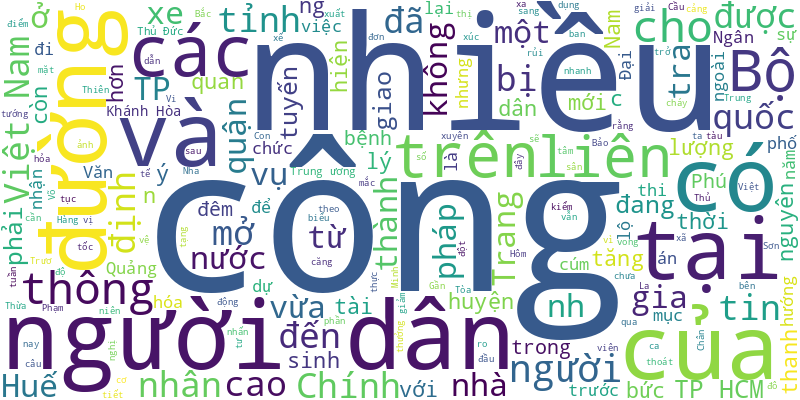
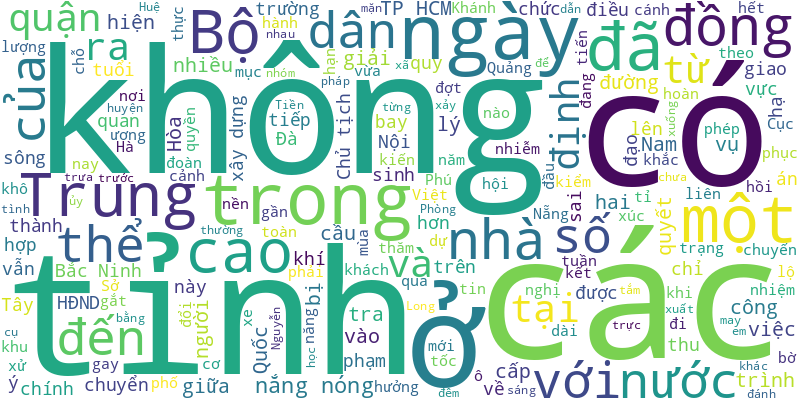
🍀 = 10%

diff --git a/README.md b/README.md
@@ -1,6 +1,16 @@
 # Tuoi Tre RSS 
 
 ## Giáo dục 
+- Kỳ thi đánh giá năng lực đợt 1 năm 2023 do Đại học Quốc gia TP.HCM tổ chức vào sáng 7-4 có tỉ lệ thí sinh dự thi cao nhất từ trước đến nay lên đến 98,2%.
+- Những học sinh còn nằm viện kể trên của Trường tiểu học Vĩnh Trường và Trường THCS Trần Hưng Đạo, TP Nha Trang đều đã nhập viện cùng ngày với nữ sinh lớp 5 tử vong vào sáng 5-4.
+- Chiều 7-4, vòng chung kết cuộc thi ‘Thử thách kinh doanh sáng tạo Việt Nam năm 2024’’ đã diễn ra tại Đại học Fulbright Việt Nam.
+- Với hầu hết học sinh, chụp ảnh thành phố từ sông Sài Gòn là trải nghiệm 'có 1 không 2'. Có bạn đã chụp hơn 300 tấm hình trong chuyến đi đầy thú vị.
+- Chiều tối 7-4, 100 học sinh THCS và 100 học sinh THPT sẽ tranh tài tại vòng chung kết Hội thi sáng tác ảnh Tuổi Xanh.
+- Từ Hungary, 2 giảng viên và 4 sinh viên sang Việt Nam học nghề bếp, từ phở, bún chả, gỏi cuốn đến dê chiên riềng, gà tre hấp mắm, cua lột xốt...
+- Hoàn thành bài thi đánh giá năng lực trưa 7-4, nhiều thí sinh dự kiến có thể trên 700 điểm, có bạn tự tin sẽ được 1.000 trên tổng 1.200 điểm.
+- Tổng số thí sinh dự thi đánh giá năng lực sáng 7-4 là 93.831, vắng 1.718, tỉ lệ 98,2%, cao nhất từ trước đến nay.
+- Gần 20 năm giảng dạy và nghiên cứu côn trùng học, tiến sĩ Nguyễn Thị Oanh tìm ra những phương pháp tự nhiên bảo vệ cây trồng và nông sản.
+- Hơn 95.000 thí sinh bước vào kỳ thi đánh giá năng lực đợt 1 năm 2024 do Đại học Quốc gia TP.HCM tổ chức sáng 7-4 tại 24 tỉnh, thành trên cả nước.
 - Sáng nay 7-4, hơn 95.000 thí sinh dự thi đánh giá năng lực của ĐH Quốc gia TP.HCM, đông nhất từ trước đến nay.
 - Không cần tham gia các bảng xếp hạng, nhiều đại học đang nỗ lực tạo dựng vị thế bằng các công trình nghiên cứu, các dự án thay đổi xã hội theo hướng tích cực và bền vững.
 - Tối 6-4, Trường phổ thông Năng khiếu (Đại học Quốc gia TP.HCM) công bố chỉ tiêu và kế hoạch tuyển sinh lớp 10 năm học 2024-2025.
@@ -21,48 +31,38 @@
 - Hầu hết các tỉnh, thành đều tổ chức tổng kết năm học 2023-2024 trước ngày 31-5 và cho học sinh nghỉ hè từ ngày 1-6.
 - Nhà giáo nhân dân Lâm És, nguyên phó giám đốc Sở Giáo dục và Đào tạo tỉnh Sóc Trăng, là người viết khoảng 100 đầu sách được xuất bản, với 53 đầu sách mang tầm quốc gia.
 - Theo ông Bùi Quang Ngọc - giám đốc cấp cao Công ty Marvell Việt Nam, nhiều công ty, tập đoàn lớn trong ngành sản xuất vi mạch bán dẫn đánh giá cao đội ngũ kỹ sư người Việt bởi tính cần cù, sáng tạo và trung thực.
-- UBND tỉnh Lâm Đồng đã ra văn bản hỏa tốc yêu cầu UBND huyện Lạc Dương kiểm tra xử lý vụ "học sinh chui rào kẽm gai để đến trường".
-- Ngày 5-4, UBND TP Hải Phòng phối hợp cùng Tập đoàn giáo dục quốc tế KinderWorld khởi công xây dựng Trường quốc tế Singapore đầu tiên tại Hải Phòng.
-- Theo Nhà xuất bản Giáo dục Việt Nam, việc giảm giá trên dưới 10% giá bìa được áp dụng với các bộ sách giáo khoa các lớp 1, 2 ,3, 4, 6, 7, 8, 10, 11.
-- Ba học sinh lớp 4, 5 ở TP.HCM gây bất ngờ khi trình làng hệ thống Vườn cây thông minh mini vận hành bằng bánh xe nước.
-- Trong sáng 5-4, có 32 học sinh Trường tiểu học Vĩnh Trường và Trường THCS Trần Hưng Đạo, TP Nha Trang (Khánh Hòa) đã được sơ cứu tại trường, rồi đưa vào các bệnh viện. Trong đó, có nữ sinh lớp 5 đã bị tử vong.
-- Học sinh thôn Păng Tiêng, xã Lát, huyện Lạc Dương (Lâm Đồng) phải chui rào kẽm gai để đến trường vì con đường quen thuộc bị công ty thủy điện rào chắn.
-- Liên tục xuất hiện những vụ học sinh ngộ độc do chơi 'bóng nổ', 'bóng thối' khiến nhiều địa phương phải lên tiếng cảnh báo về các loại đồ chơi nguy hiểm.
-- Theo các chuyên gia, việc lái xe trên đường có nhiệt độ quá cao gây ảnh hưởng đến ô tô, hư hỏng nhiều bộ phận không riêng lốp xe, nên rất dễ xảy ra tai nạn.
-- Trong con mắt nhà toán học và nhà khoa học, bảng đen có sức hấp dẫn kỳ lạ, và những gì được viết trên đó bằng phấn - không nhất thiết phải là phấn trắng - có vẻ đẹp đến tầm nghệ thuật.
-- Quy mô đào tạo đại học chính quy của nhiều trường đại học, phân hiệu đại học chỉ trên dưới 1.000 sinh viên, thậm chí có nơi chưa đến 200 sinh viên.
 ![Edu](Edu.png)
 ## Thời Sự 
-- Tin tức đáng chú ý: Hà Nội, TP.HCM, Nghệ An sẽ thí điểm cấp phiếu lý lịch tư pháp tại quận, huyện; Lượng tài khoản chứng khoán mở mới tăng cao; Khánh Hòa mở cao điểm kiểm tra vệ sinh thực phẩm sau nhiều vụ ngộ độc liên tục...
-- Hôm nay thời tiết nắng đã bớt căng thẳng đối với các tỉnh Bắc Bộ, Trung Bộ, riêng tại Nam Bộ, Tây Nguyên vẫn còn gay gắt, oi bức.
-- Phó giám đốc Sở Thông tin và Truyền thông tỉnh Khánh Hòa cho hay liên quan đến vụ nữ sinh lớp 5 Trường tiểu học Vĩnh Trường, Nha Trang tử vong, có hơn 20 tài khoản mạng xã hội đăng tải thông tin không chính xác.
-- Hàng trăm người dân theo dõi công an giải cứu thanh niên có biểu hiện ngáo đá leo lên ban công sân thượng nhà dân trong đêm. Nhiều người ngao ngán: 'Một người làm khổ bao người'.
-- Phú Quốc có nhiều tour trải nghiệm câu mực đêm, ngồi tàu ngắm hoàng hôn hấp dẫn du khách.
-- Thủ tướng Phạm Minh Chính đã đột xuất đến Bệnh viện Trung ương Huế thăm, động viên ba bệnh nhân vừa được ghép tạng xuyên Việt từ người hiến tạng chết não ở Quảng Ninh.
-- Người dân  cho biết quá bức xúc trước việc đơn vị thi công cho xe lu lèn mặt đường quốc lộ 19 khiến nhà cửa bị rung lắc, nứt vách.
-- Dự án thoát nước đường Võ Văn Ngân (TP Thủ Đức) thi công trở lại, liên tục gây ảnh hưởng đến người dân.
-- Dù cuối tuần nhưng trên cao tốc La Sơn - Hòa Liên không còn cảnh tấp nập xe cộ đi lại như trước đây.
-- Đại biểu Quốc hội tỉnh Quảng Trị cho rằng việc cấm xe trên cao tốc Cam Lộ - La Sơn là dồn rủi ro từ bên này sang bên kia, không khéo dưới quốc lộ 1 còn rủi ro nhiều hơn vì xuyên tâm qua thành phố.
-- Gần 20ha mía của người dân Phú Yên bị lửa thiêu rụi trong đêm, hiện lực lượng chức năng đang khẩn trương điều tra nguyên nhân.
-- Nhiều quái xế phóng nhanh, vượt ẩu, lạng lách trên đường phố Quảng Ngãi bị công an tuần tra hóa trang tóm gọn.
-- Thủ tướng Phạm Minh Chính đã nhấn nút khởi công khu cảng biển Vsico Huế nằm trong cụm cảng nước sâu Chân Mây (huyện Phú Lộc, Thừa Thiên Huế).
-- Chiều 6-4, phần đầu máy của đoàn tàu hỏa chở hàng đi đến xã Liên Bảo, huyện Vụ Bản, tỉnh Nam Định thì bất ngờ bốc cháy buộc phải dừng.
-- Tòa án nhân dân tối cao đang lấy ý kiến góp ý với dự thảo nghị quyết hướng dẫn áp dụng một số quy định về tình tiết giảm nhẹ trách nhiệm hình sự.
-- Việc 239 chiếc xe buýt ở TP.HCM thay mới nhận được sự ủng hộ của nhiều người dân. Nhưng để phát triển hơn nữa, người dân mong cần xử lý nghiêm các tài xế, nhân viên có thái độ chưa tốt.
-- Việt Nam vừa ghi nhận ca mắc cúm A(H9) đầu tiên trên người. Trước đó, tại tỉnh Khánh Hòa đã có ca tử vong do cúm A(H5N1). Bộ Y tế nhận định thời gian tới vẫn tiềm ẩn nguy cơ lây nhiễm các chủng vi rút cúm gia cầm sang người.
-- Con đường ẩm thực thưởng thức bê thui Cầu Mống tại chân cầu Câu Lâu ở hướng phía Bắc, từ trung tâm thị xã Điện Bàn đi vào bờ sông Thu Bồn đìu hiu nửa năm qua.
-- UBND tỉnh Bình Định đề nghị Chính phủ hỗ trợ khoảng 1.500 tỉ đồng để cùng với ngân sách địa phương  mở rộng sân bay Phù Cát.
-- Người dân bức xúc vì cát bụi tại công trình thi công dự án thoát nước trên đường Võ Văn Ngân (TP Thủ Đức) bay mù mịt.
-- Nhiều phụ huynh phản ảnh tại TP Nha Trang, Khánh Hòa, các trường không mở căng tin, học sinh phải ăn ở ngoài, nên rất lo lắng chất lượng bữa ăn của con em.
-- Bộ Ngoại giao Việt Nam nhấn mạnh các trụ sở cơ quan đại diện ngoại giao và lãnh sự phải được tôn trọng, bảo vệ theo luật pháp quốc tế, sau vụ một tòa nhà của Đại sứ quán Iran bị tấn công hôm 1-4.
-- Có đến gần 10% người dân Việt Nam mắc phải bệnh lý trào ngược dạ dày và đang có xu hướng gia tăng do nhiều nguyên nhân khác nhau.
-- UBND quận 1, quận 10 và quận 11 gửi Sở Giao thông vận tải TP.HCM, các đơn vị liên quan đề xuất danh mục các tuyến đường sử dụng tạm thời một phần vỉa hè ngoài mục đích giao thông.
-- Những biện pháp để tăng cường phòng chống và giảm thiểu hậu quả khi đã bị tấn công mã hóa tống tiền vừa được Cục An toàn thông tin xây dựng thành cẩm nang.
-- Sáng 6-4, tại Thanh Hóa, Ủy ban Trung ương MTTQ Việt Nam tổ chức gặp mặt, tri ân chiến sĩ, thanh niên xung phong, dân công hỏa tuyến tham gia chiến dịch Điện Biên Phủ.
-- Từ vụ cháy dãy nhà ven bờ nam kênh Đôi mới đây, nhiều bạn đọc cho rằng TP.HCM cần có giải pháp đột phá đẩy nhanh tiến độ chỉnh trang, di dời và tổ chức lại cuộc sống của người dân đang sống trên và ven kênh rạch hiện nay.
-- Đường Lê Văn Việt là tuyến đường chính của TP Thủ Đức, nhưng chưa được mở rộng trên toàn tuyến.
-- Thừa Thiên Huế xác định mục tiêu đến năm 2025 sẽ trở thành thành phố trực thuộc trung ương và là đô thị di sản đặc trưng của Việt Nam.
-- Bộ Tài chính vừa duyệt kế hoạch kiểm tra hoạt động kinh doanh xổ số, casino và trò chơi có thưởng cho người nước ngoài năm 2024.
+- HĐND tỉnh Quảng Nam đã miễn nhiệm chức danh chủ tịch HĐND tỉnh nhiệm kỳ 2021-2026 đối với ông Phan Việt Cường.
+- Một số tin tức đáng chú ý: 5 đoàn liên ngành trung ương kiểm tra an toàn thực phẩm; TP.HCM đặt mục tiêu giảm 85% ô nhiễm không khí do xe cộ; Cục An toàn thông tin khuyến cáo người dùng iPhone cảnh giác...
+- Hôm nay thời tiết Nam Bộ tiếp tục nắng nóng, có nơi nắng nóng gay gắt, kéo dài chuỗi ngày khô hạn ở khu vực này lên hơn 55 ngày.
+- Trong hai ngày cuối tuần, nhiều chuyến bay đi, đến sân bay Điện Biên không thể cất, hạ cánh hoặc phải chuyển hướng hạ cánh do ảnh hưởng mù khô.
+- Vụ tai nạn liên hoàn giữa 3 xe khách 45 chỗ trên đường nối cao tốc Nội Bài - Lào Cai đến Sa Pa (tỉnh lộ 155) khiến một hành khách tử vong.
+- Chủ tịch Quốc hội nhấn mạnh ý nghĩa quan trọng của chuyến thăm chính thức Trung Quốc lần này trong việc duy trì đà tiếp xúc cấp cao, trao đổi chiến lược cấp cao giữa hai Đảng, hai nước.
+- Tuổi Trẻ Online ghi nhận hiện trạng, ý kiến người dân ở các tuyến đường đủ điều kiện thu phí sử dụng tạm vỉa hè ở quận 1, quận 10 và quận 11.
+- Dù có quyết định cưỡng chế do xây dựng sai phép, không phép nhưng 96 trường hợp vẫn không khắc phục, UBND quận 7 đề nghị ngừng các giao dịch, chuyển nhượng với các công trình trên.
+- Sau khi có chỉ đạo của thành phố Đà Nẵng, các lực lượng chức năng đã hoàn thành việc xúc lớp giá hạ đổ chồng lên trên nền đất cũ ngoài bờ kè sông Hàn gần cầu Trần Thị Lý.
+- Nhờ sự vào cuộc quyết liệt của chính quyền địa phương và đồng lòng của người dân, dự án đường dây 500kV mạch 3 qua Nghệ An đang được đẩy nhanh tiến độ.
+- Khánh Hòa đã thu hồi, nộp ngân sách nhà nước gần 700 tỉ đồng trong quá trình xử lý, khắc phục sai phạm tại các dự án theo kết luận, kiến nghị của các cơ quan trung ương.
+- Hà Nội đã bước vào đợt nắng nóng đầu tiên trong năm 2024, tuy nhiên chất lượng không khí có ngày vẫn ở mức xấu. Khi nào mới hết "mùa" ô nhiễm không khí?
+- Trung tâm Quản lý nhà và Giám định xây dựng (Sở Xây dựng TP.HCM) vừa kiểm kê nhà sở hữu nhà nước số 14 Tự Quyết (quận Tân Phú) bị người thuê chia 3 căn bán.
+- Quảng Trị yêu cầu thường trực huyện ủy về làm việc trực tiếp từng xã để giải quyết dứt điểm từng trường hợp cụ thể, và bàn giao mặt bằng cao tốc Cam Lộ - Vạn Ninh trước ngày 30-4.
+- Phòng cảnh sát điều tra tội phạm về ma túy Công an TP Hải Phòng vừa bắt quả tang nhóm “bay lắc”, có cả nữ cán bộ công an tham gia tổ chức.
+- Đến trưa 7-4, vẫn chưa có tung tích Nguyễn Kiều Thảo My (7 tuổi) và Lê Hoàng Thùy Linh (3 tuổi) bị lạc ở khu vực Đồng Khởi - Nguyễn Huệ (TP.HCM).
+- Các giải pháp để môi trường nước tốt hơn đã được HĐND TP.HCM giải đáp trong chương trình Dân hỏi chính quyền trả lời sáng 7-4.
+- Nhóm học sinh rủ nhau đi tắm ở Vực Phun (xã Hòa Mỹ Tây, huyện Tây Hòa, tỉnh Phú Yên), không may một em chết đuối.
+- Trong đêm, sáu nhà dân ở thành phố Bắc Ninh (tỉnh Bắc Ninh) bị sạt lở xuống sông Cầu. Trước đó tỉnh Bắc Ninh đã công bố tình trạng khẩn cấp.
+- Lãnh đạo tỉnh Tiền Giang khẳng định tình hình thiếu nước sinh hoạt chỉ xảy ra cục bộ tại một số chỗ, một số khung giờ.
+- Đêm Thăng Long hấp dẫn các khán giả bởi kết hợp giữa giao hưởng với nhiều thể loại âm nhạc khác nhau.
+- Ba học sinh xuống biển tắm giữa trưa, không may bị sóng đánh ra xa, được hai anh em ruột đang đánh cá cứu đưa vào bờ.
+- Tuần này các tỉnh từ Trung Bộ trở ra Bắc Bộ mưa rào, vài nơi nắng nóng, còn tại Nam Bộ, Tây Nguyên nắng nóng gay gắt dài ngày.
+- Từ nay đến hết mùa hạn mặn năm 2024, khả năng xuất hiện từ 3 đợt xâm nhập mặn tăng cao ở Đồng bằng sông Cửu Long.
+- Sáng 7-4, Chủ tịch Quốc hội Vương Đình Huệ dẫn đầu đoàn đại biểu cấp cao Việt Nam rời Hà Nội, lên đường thăm Trung Quốc từ ngày 7 đến 12-4.
+- Nuôi chó, mèo tại chung cư lại gây ra rất nhiều phiền lụy với những cư dân khác mà chưa có quy định cụ thể nào.
+- Một vụ án mạng xảy ra tại Đà Nẵng vào tối 6-4 xuất phát từ mâu thuẫn trong lúc ăn nhậu.
+- Thanh tra Khánh Hòa phát hiện nhiều sai phạm về kinh tế với số tiền hơn 13,2 tỉ đồng, chuyển cơ quan điều tra 3 vụ việc.
+- Theo nhà thầu, không thay đổi giải pháp xử lý nền, hạng mục cầu cạn vành đai 3 qua Thủ Đức có thể phải tới tháng 9-2026 mới xong.
+- Ban Thường vụ Tỉnh ủy Lâm Đồng chỉ đạo thực hiện quy trình đóng cửa Dinh 1, tiến hành thu hồi đúng quy định.
 ![New](News.png)
 ## Nhịp sống số 
 - Những video, âm thanh và hình ảnh do AI tạo ra hoặc do AI thay đổi nội dung sẽ được Meta gắn nhãn 'tạo bởi AI' để phân biệt với những sản phẩm khác.
